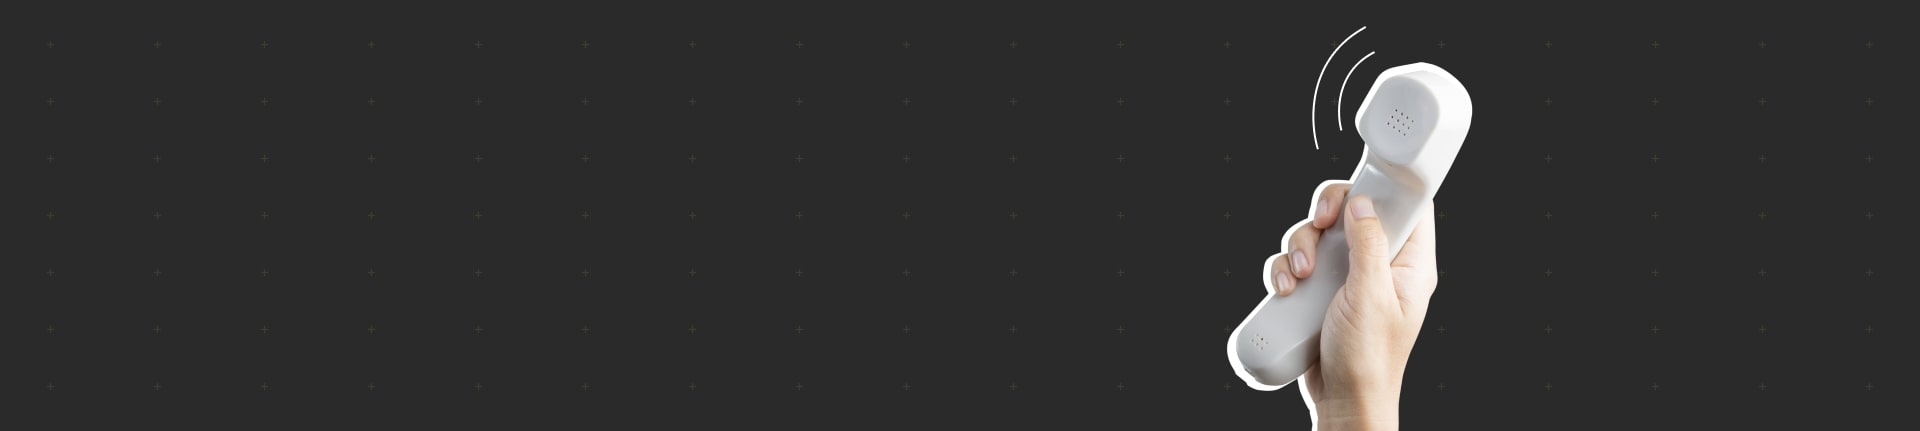
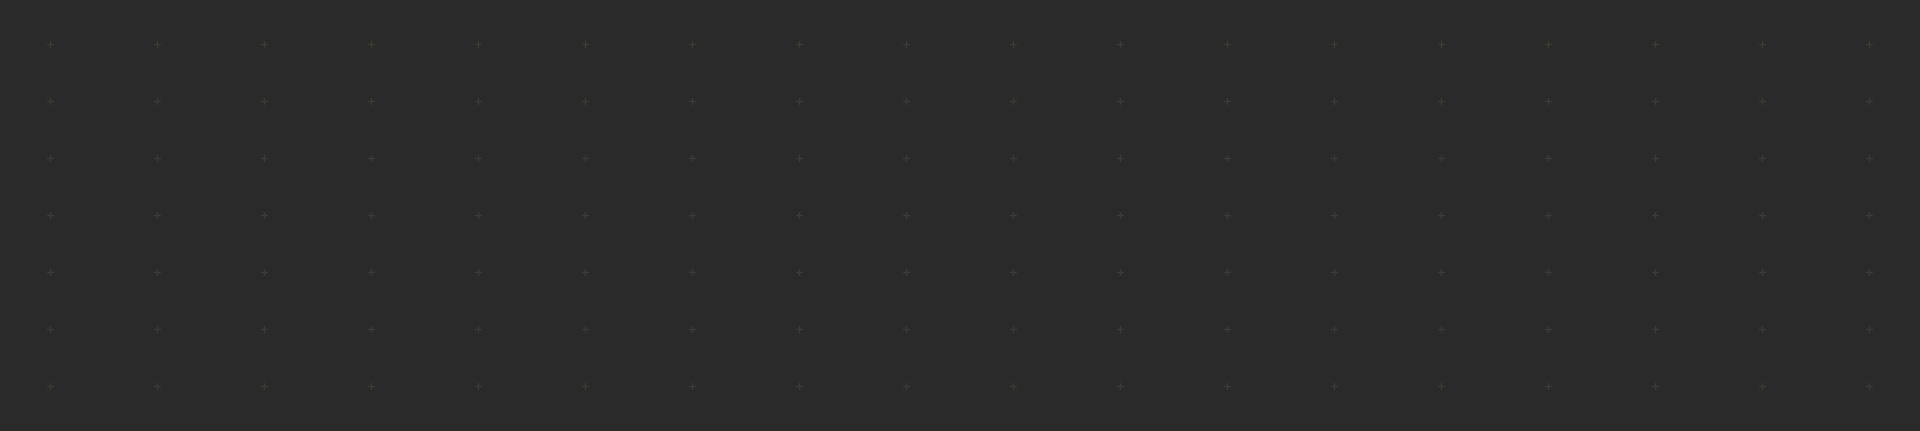
phone added fixed for positions of elements

Changed region(s): [[0.625, 0.1206, 0.7812, 1.0]]

diff --git a/index.html b/index.html
@@ -296,6 +296,12 @@
                 margin-left: 0;
             }
         }
+        @media (max-width: 590px) {
+            .main_wrapper {
+                background: url("./assets/images/1m.jpg") no-repeat;
+                background-size: cover;
+            }
+        }
         @media (max-width: 480px) {
             .section-heading {
                 font-size: 32px;
@@ -366,6 +372,7 @@
             width: 100%;
             min-height: 768px;
             padding-bottom: 0;
+            position: relative;
         }
         .skill_wrapper > .header_wrapper {
             margin: 7rem 20% 40px;
@@ -378,6 +385,10 @@
         .skill_content_left {
             margin-right: 2rem;
             max-width: 555px;
+        }
+        .skill_content_left > .btn_wrapper {
+            position: absolute;
+            bottom: 120px;
         }
         .skill_content_right {
             max-width: 555px;
@@ -399,10 +410,19 @@
             margin-bottom: 0.55rem;
         }
         .skill_content_right > .main_contacts {
-            margin-top: 1rem;
+            position: absolute;
+            bottom: 150px;
         }
         .skill_content_right > .main_contacts > div {
             margin-right: 1rem;
+        }
+        @media (max-width: 1180px) {
+            .skill_content_left > .btn_wrapper {
+                position: inherit;
+            }
+            .skill_content_right > .main_contacts {
+                position: inherit;
+            }
         }
         @media (max-width: 795px) {
             .not-centered {
@@ -413,6 +433,12 @@
             }
             .skill_content > div {
                 margin-bottom: 2rem;
+            }
+        }
+        @media (max-width: 590px) {
+            .section_skill {
+                background: url("./assets/images/2m.jpg") no-repeat;
+                background-size: cover;
             }
         }
         @media (max-width: 480px) {
@@ -503,6 +529,12 @@
                 width: 70%;
             }
         }
+        @media (max-width: 590px) {
+            .section_service {
+                background: url("./assets/images/3m.jpg") no-repeat;
+                background-size: cover;
+            }
+        }
         @media (max-width: 480px) {
             .service_wrapper > div {
                 width: auto;
@@ -570,15 +602,23 @@
         .media_caption {
             margin-right: 2rem;
         }
-        @media (max-width: 1300px) {
+
+        @media (max-width: 1650px) {
             .portfolio_content {
                 flex-direction: column;
             }
             .portfolio-item {
                 margin-bottom: 1rem;
             }
+            .portfolio_wrapper > div {
+                margin: 3rem 20%;
+            }
         }
         @media (max-width: 590px) {
+            .section_portfolio {
+                background: url("./assets/images/4m.jpg") no-repeat;
+                background-size: cover;
+            }
             .portfolio_wrapper {
                 margin: 2rem 13%;
             }
@@ -663,10 +703,15 @@
             .review_item {
                 margin-bottom: 1rem;
                 width: 80%;
+                max-width: none;
             }
 
         }
         @media (max-width: 590px) {
+            .section_reviews {
+                background: url("./assets/images/5m.jpg") no-repeat;
+                background-size: cover;
+            }
             .reviews_wrapper > .header_wrapper {
                 margin: 4rem 20% 40px;
             }
@@ -714,16 +759,28 @@
             width: 100%;
             min-height: 431px;
             padding-bottom: 50px;
+            position: relative;
         }
         .footer_wrapper {
             display: flex;
-            width: 60%;
+            width: 100%;
         }
         .footer_content_right {
-            margin: 8rem 20% 7rem 0;
+            margin: 8rem 20% 7rem 15%;
         }
         .footer_content_left {
-            margin: 7rem 20% 7rem 33%;
+            margin: 7rem 15% 7rem 20%;
+        }
+        .footer_content_center {
+            background: url("./assets/images/phone.png") no-repeat;
+            background-size: cover; /* Масштабируем фон */
+            /*height: 100%;*/
+            width: 246px;
+            position: absolute;
+            bottom: 0;
+            left: 50%;
+            transform: translate(-50%, 0);
+            margin-right: -50%;
         }
         .old_contacts {
             margin-top: 2rem;
@@ -753,7 +810,22 @@
         .footer_content_right--mobile {
             display: none;
         }
-
+        @media (min-width: 2800px) {
+            .footer_content_center {
+                left: 45%;
+            }
+        }
+        @media (max-width: 1350px) {
+            .footer_content_center {
+                display: none;
+            }
+            .footer_content_right {
+                margin: 8rem 20% 7rem 5%;
+            }
+            .footer_content_left {
+                margin: 7rem 5% 7rem 20%;
+            }
+        }
         @media (max-width: 795px) {
             .footer_wrapper {
                 width: 100%;
@@ -783,6 +855,10 @@
             }
         }
         @media (max-width: 590px) {
+            .footer {
+                background: url("./assets/images/6m.jpg") no-repeat;
+                background-size: cover;
+            }
             .footer_content_left > .header_wrapper {
                 margin: 0 5% 0;
             }
@@ -1347,6 +1423,9 @@
 
                       </div>
                   </div>
+              </div>
+              <div class="footer_content_center">
+                  <div class="wrapper" style="width: 246px; height: 407px"></div>
               </div>
               <div class="footer_content_right">
                   <div class="chain lowercase">
